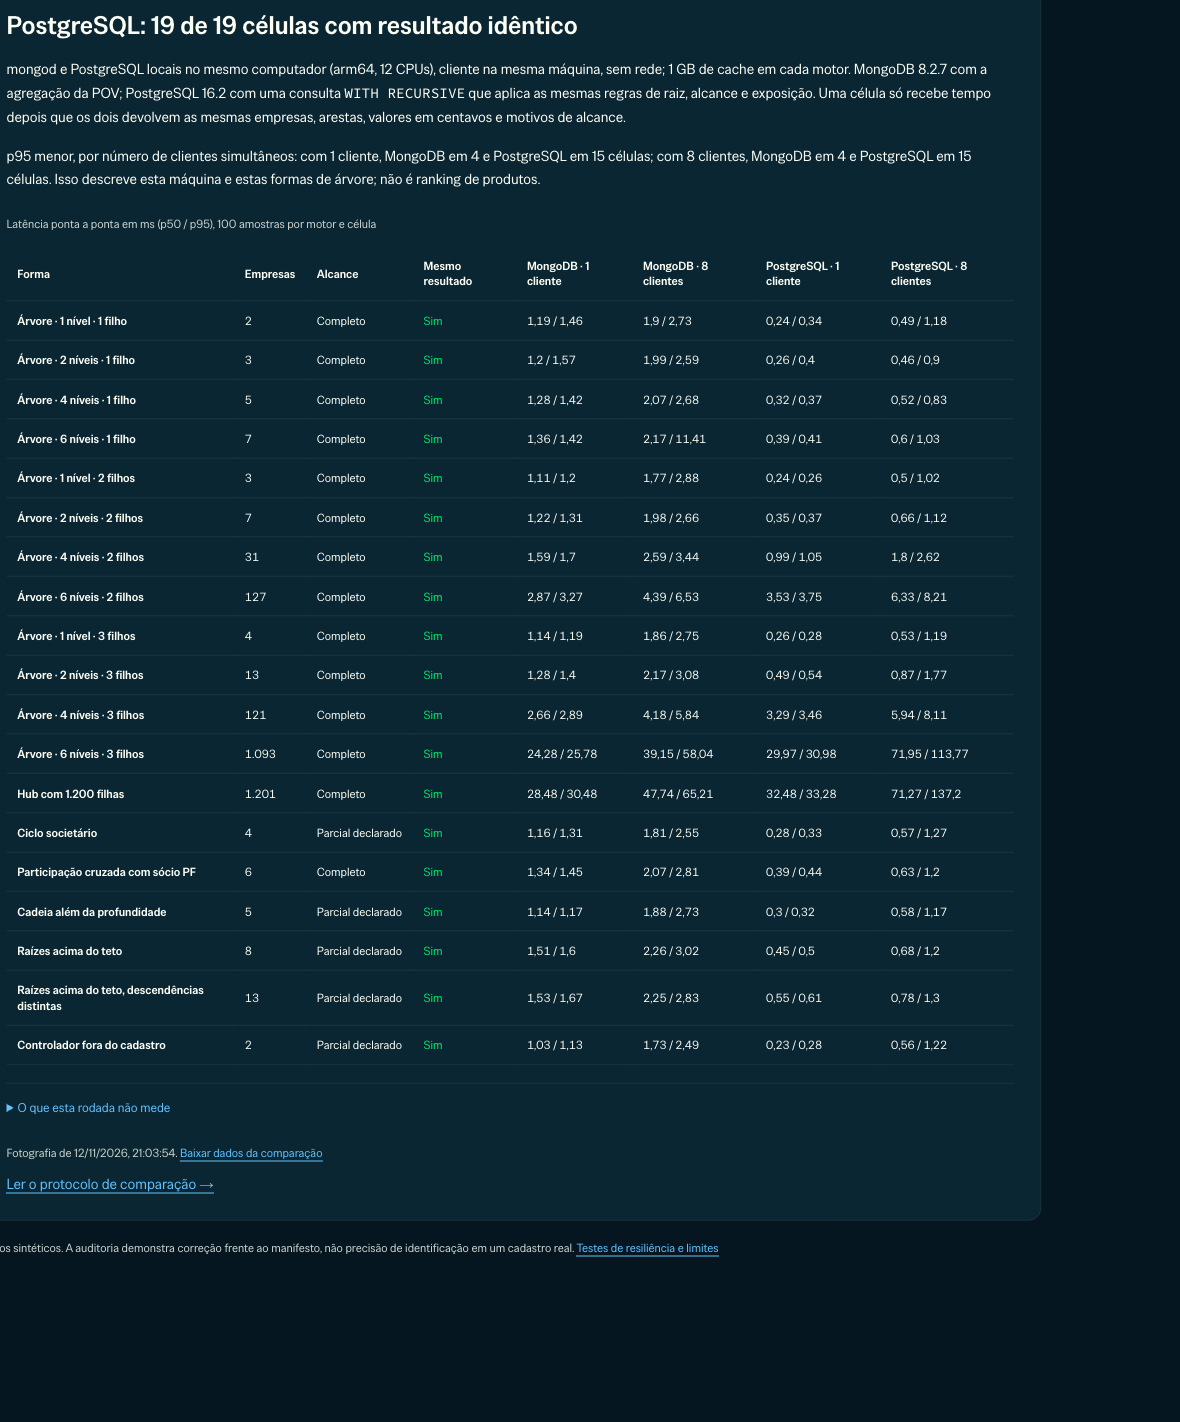
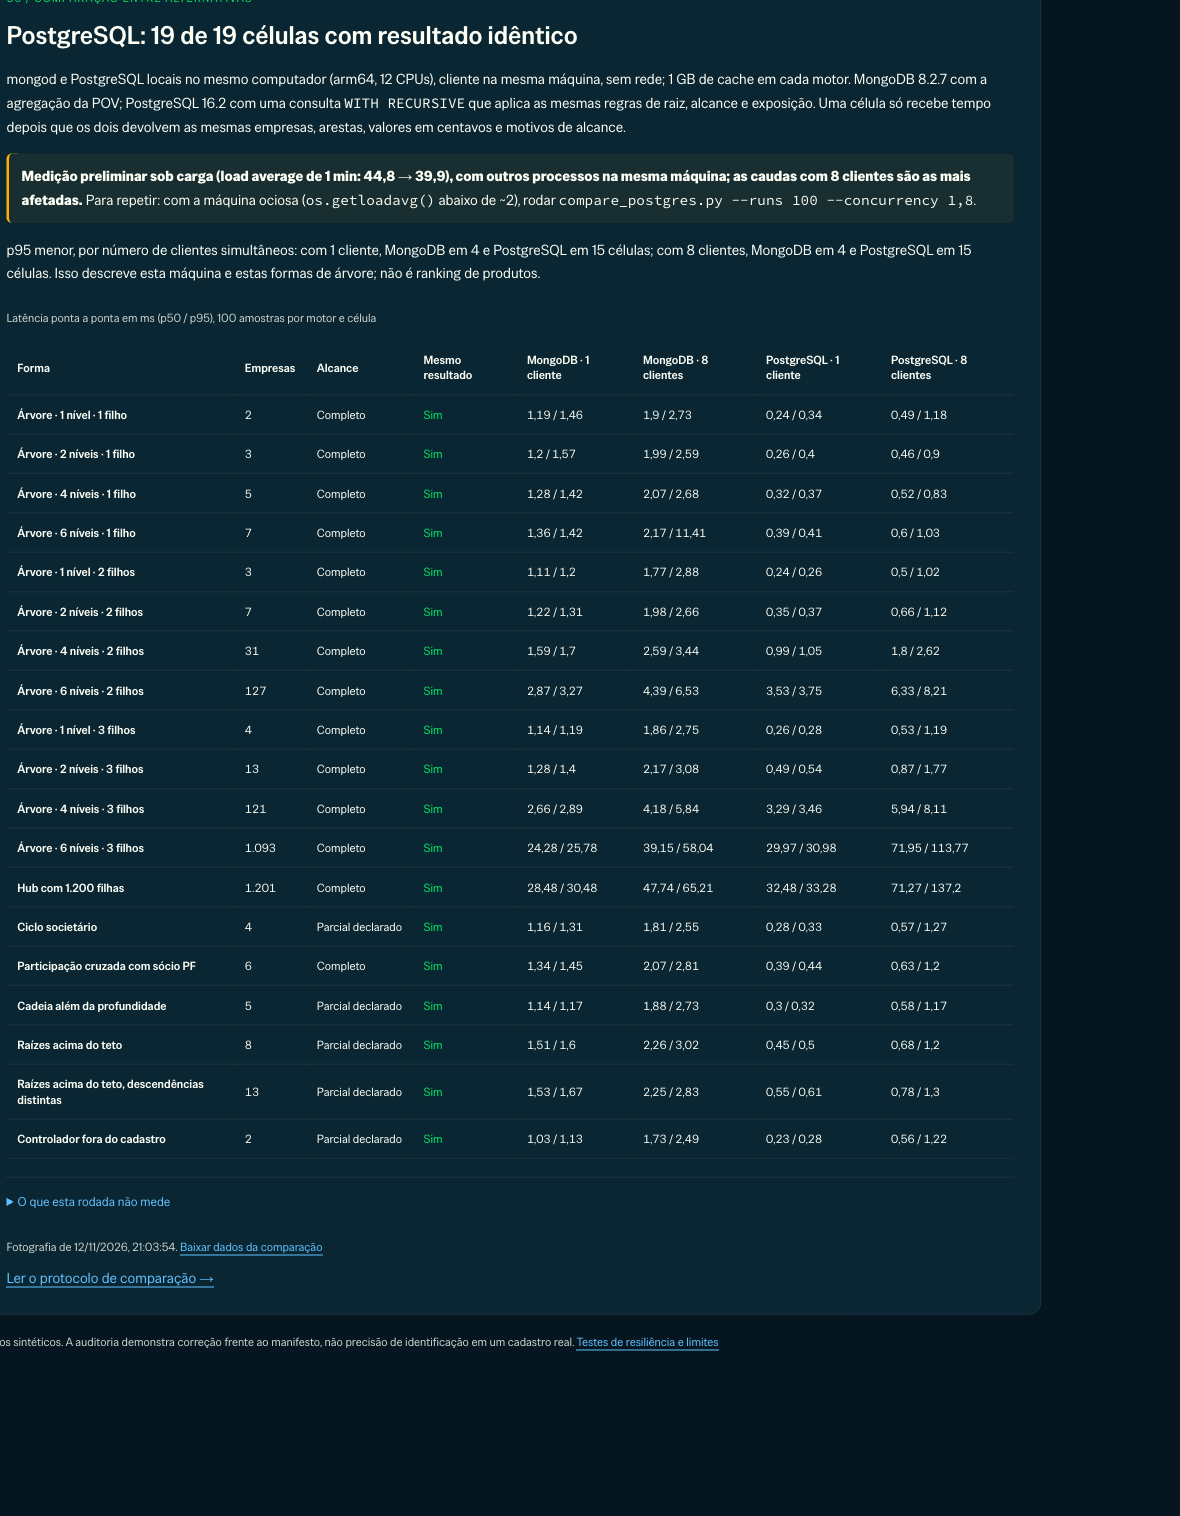
docs: comparação rotulada como medição preliminar sob carga, com passo de repetição e razões por tamanho

Changed region(s): [[0.0, 0.0, 0.8237, 0.8973], [0.2136, 0.526, 0.2441, 0.5879]]

diff --git a/frontend/src/ValidationPage.jsx b/frontend/src/ValidationPage.jsx
@@ -1,6 +1,6 @@
 import { useEffect, useState } from 'react'
 import './validation.css'
-import { validEvidenceReport, validComparisonReport } from './evidenceReport'
+import { validEvidenceReport, validComparisonReport, loadNote } from './evidenceReport'
 
 const number = n => new Intl.NumberFormat('pt-BR', { maximumFractionDigits: 2 }).format(n)
 const money = cents => new Intl.NumberFormat('pt-BR', { style: 'currency', currency: 'BRL' }).format(cents / 100)
@@ -44,17 +44,19 @@ function Comparison({ d }) {
   const timed = d.cells.filter(c => c.same_result)
   const p95 = (c, n, e) => c.latency[n][e].p95_ms
   const mongoLower = n => timed.filter(c => p95(c, n, 'mongodb') < p95(c, n, 'postgresql')).length
+  const note = loadNote(d)
   const clients = n => `${n} ${n === '1' ? 'cliente' : 'clientes'}`
   return <>
     <h2>PostgreSQL: {timed.length} de {d.cells.length} células com resultado idêntico</h2>
     <p>{d.environment}. MongoDB {d.engines.mongodb} com a agregação da POV; PostgreSQL {d.engines.postgresql} com uma consulta <code>WITH RECURSIVE</code> que aplica as mesmas regras de raiz, alcance e exposição. Uma célula só recebe tempo depois que os dois devolvem as mesmas empresas, arestas, valores em centavos e motivos de alcance.</p>
+    {note && <p className={note.busy ? 'validation-warning' : 'validation-note'}><strong>{note.text}</strong>{note.busy && <> Para repetir: com a máquina ociosa (<code>os.getloadavg()</code> abaixo de ~2), rodar <code>compare_postgres.py --runs 100 --concurrency 1,8</code>.</>}</p>}
     <p>p95 menor, por número de clientes simultâneos: {levels.map((n, i) => <span key={n}>{i ? '; ' : ''}com {clients(n)}, MongoDB em {mongoLower(n)} e PostgreSQL em {timed.length - mongoLower(n)} células</span>)}. Isso descreve esta máquina e estas formas de árvore; não é ranking de produtos.</p>
     <div className="validation-table-wrap"><table><caption>Latência ponta a ponta em ms (p50 / p95), {d.method.runs_per_cell} amostras por motor e célula</caption>
       <thead><tr><th>Forma</th><th>Empresas</th><th>Alcance</th><th>Mesmo resultado</th>{levels.map(n => <th key={'m'+n}>MongoDB · {n} {n === '1' ? 'cliente' : 'clientes'}</th>)}{levels.map(n => <th key={'p'+n}>PostgreSQL · {n} {n === '1' ? 'cliente' : 'clientes'}</th>)}</tr></thead>
       <tbody>{d.cells.map(c => <tr key={c.cell}><th>{cellLabel(c.cell)}</th><td>{number(c.returned_companies)}</td><td>{c.reasons.length ? 'Parcial declarado' : 'Completo'}</td><td className={c.same_result ? 'validation-ok' : 'validation-fail'}>{c.same_result ? 'Sim' : 'Divergente'}</td>
         {['mongodb','postgresql'].flatMap(e => levels.map(n => <td key={e+n}>{c.same_result ? `${number(c.latency[n][e].p50_ms)} / ${number(c.latency[n][e].p95_ms)}` : '—'}</td>))}</tr>)}</tbody>
     </table></div>
-    <details><summary>O que esta rodada não mede</summary><ul>{d.not_measured.map(t => <li key={t}>{t}</li>)}</ul>{d.host_load_average?.start && <p>Carga média da máquina (1 min) no início e no fim da rodada: {number(d.host_load_average.start[0])} e {number(d.host_load_average.end?.[0] ?? NaN)}, com outros processos ativos na mesma máquina. Caudas com 8 clientes são as mais sensíveis a isso.</p>}<p>Tempos incluem o cliente Python, sem rede. Amostras individuais, tempo no servidor, carga e tamanho em disco estão no download.</p></details>
+    <details><summary>O que esta rodada não mede</summary><ul>{d.not_measured.map(t => <li key={t}>{t}</li>)}</ul><p>Tempos incluem o cliente Python, sem rede. Amostras individuais, tempo no servidor, carga e tamanho em disco estão no download.</p></details>
     <p className="validation-note">Fotografia de {new Date(d.measured_at).toLocaleString('pt-BR')}. <a href="/evidence/comparison.json" download="graph-comparison.json">Baixar dados da comparação</a></p>
   </>
 }

diff --git a/frontend/src/evidenceReport.js b/frontend/src/evidenceReport.js
@@ -31,3 +31,21 @@ export function validComparisonReport(d) {
       Array.isArray(c.reasons) &&
       (!c.same_result || d.method.concurrency.every(n => latency(c.latency?.[String(n)]?.mongodb) && latency(c.latency?.[String(n)]?.postgresql)))))
 }
+
+// Texto da carga da máquina durante a rodada. Sem `end`, omite o valor final.
+const IDLE_LOAD = 2
+const load = n => new Intl.NumberFormat('pt-BR', { maximumFractionDigits: 1 }).format(n)
+export function loadNote(d) {
+  const start = d?.host_load_average?.start?.[0]
+  if (!Number.isFinite(start)) return null
+  const end = d.host_load_average.end?.[0]
+  const hasEnd = Number.isFinite(end)
+  const busy = start >= IDLE_LOAD || (hasEnd && end >= IDLE_LOAD)
+  const values = hasEnd ? `${load(start)} → ${load(end)}` : `${load(start)} no início`
+  return {
+    busy,
+    text: busy
+      ? `Medição preliminar sob carga (load average de 1 min: ${values}), com outros processos na mesma máquina; as caudas com 8 clientes são as mais afetadas.`
+      : `Máquina ociosa durante a rodada (load average de 1 min: ${values}).`,
+  }
+}

diff --git a/frontend/src/validation.css b/frontend/src/validation.css
@@ -37,3 +37,4 @@
 .validation-page :focus-visible { outline:2px solid var(--accent); outline-offset:4px; }
 @media(max-width:650px) { .validation-page{padding:22px 16px 44px}.validation-card{padding:20px 14px}.validation-facts{grid-template-columns:1fr}.validation-heading{padding-top:30px}.validation-card h2{font-size:24px}.validation-chart{margin:24px -4px}.validation-meta{gap:10px}.validation-section-title label,.validation-section-title select{width:100%} }
 @media(prefers-reduced-motion:reduce){.validation-page{scroll-behavior:auto}}
+.validation-warning { padding:12px 14px; border-left:3px solid var(--warning, #ffad00); background:var(--bg-elevated, rgba(255,173,0,.06)); border-radius:6px; }

diff --git a/README.md b/README.md
@@ -52,7 +52,7 @@ npm --prefix frontend run build
 
 The script reads the demo dataset and creates an isolated `graph_evidence_test_<uuid>` database for the curve, then removes it. Ten warm samples per point provide an exploratory curve, not a stable production tail-latency estimate.
 
-The third section compares the same question against PostgreSQL `WITH RECURSIVE`, with both engines running locally on one machine and no network in between. A cell only gets timings once both engines return the same companies, edges, cents and reach reasons; all 19 did. With 1 client and with 8, PostgreSQL had the lower p95 in the same 15 cells (groups of up to 31 companies and every hostile shape) and MongoDB in the four largest trees (121 to 1,201 companies), where the 8-client gap is about two to one. Both stayed far below the 3-second interactive threshold. Managed services, network, cold cache and the full 1.2-million-company base are not part of this round. See [ADR 0004](docs/adr/0004-first-postgresql-comparison-on-local-engines.md) and the [comparison protocol](docs/comparison-protocol.md).
+The third section compares the same question against PostgreSQL `WITH RECURSIVE`, with both engines running locally on one machine and no network in between. **It is a preliminary measurement under load** (load average 44.8 → 39.9 on 12 CPUs, other processes running). To repeat it on an idle machine: wait until `os.getloadavg()` is below about 2, then run `compare_postgres.py --runs 100 --concurrency 1,8`. A cell only gets timings once both engines return the same companies, edges, cents and reach reasons; all 19 did. With 1 client and with 8, PostgreSQL had the lower p95 in the same 15 cells (groups of up to 31 companies and every hostile shape) and MongoDB in the four largest trees (121 to 1,201 companies). With 8 clients PostgreSQL's p95 was about twice MongoDB's on the 1,093- and 1,201-company trees and about 1.3–1.4× on the 121- and 127-company ones. Both stayed far below the 3-second interactive threshold. Managed services, network, cold cache and the full 1.2-million-company base are not part of this round. See [ADR 0004](docs/adr/0004-first-postgresql-comparison-on-local-engines.md) and the [comparison protocol](docs/comparison-protocol.md).
 
 ![Same result in both engines, timings per tree shape](docs/screenshots/10-comparacao-postgresql.png)
 

diff --git a/docs/comparison-protocol.md b/docs/comparison-protocol.md
@@ -1,6 +1,6 @@
 # MongoDB e PostgreSQL: protocolo de comparação
 
-**Estado em 2026-11-12:** primeira rodada executada com os dois motores locais, no mesmo computador e sem rede (MongoDB 8.2 e PostgreSQL 16, 1 GB de cache cada). As 19 células devolveram resultado idêntico. Com 1 cliente e com 8, o PostgreSQL teve p95 menor nas mesmas 15 células (grupos de até 31 empresas e todas as topologias hostis) e o MongoDB nas quatro maiores (121 a 1.201 empresas), com distância de cerca de duas vezes sob 8 clientes. A máquina estava compartilhada com outros processos (carga registrada no JSON). O MongoDB local é 8.2.7 Community; a demo roda Atlas 9.0. Decisão, números e ressalvas: [ADR 0004](adr/0004-first-postgresql-comparison-on-local-engines.md). Dados brutos: `frontend/public/evidence/comparison.json`. Atlas, PostgreSQL gerenciado, carga fria, a base de 1,2 milhão de empresas e as concorrências 32/64 continuam pendentes, nas condições abaixo.
+**Estado em 2026-11-12:** medição preliminar sob carga (load average 44,8 → 39,9 em 12 CPUs, com outros processos ativos), executada com os dois motores locais, no mesmo computador e sem rede (MongoDB 8.2 e PostgreSQL 16, 1 GB de cache cada). As 19 células devolveram resultado idêntico. Com 1 cliente e com 8, o PostgreSQL teve p95 menor nas mesmas 15 células (grupos de até 31 empresas e todas as topologias hostis) e o MongoDB nas quatro maiores (121 a 1.201 empresas). Sob 8 clientes, o p95 do PostgreSQL foi cerca de duas vezes o do MongoDB nas árvores de 1.093 e 1.201 empresas e cerca de 1,3–1,4 vez nas de 121 e 127. Para repetir em máquina ociosa: esperar `os.getloadavg()` abaixo de ~2 e rodar `compare_postgres.py --runs 100 --concurrency 1,8`. O MongoDB local é 8.2.7 Community; a demo roda Atlas 9.0. Decisão, números e ressalvas: [ADR 0004](adr/0004-first-postgresql-comparison-on-local-engines.md). Dados brutos: `frontend/public/evidence/comparison.json`. Atlas, PostgreSQL gerenciado, carga fria, a base de 1,2 milhão de empresas e as concorrências 32/64 continuam pendentes, nas condições abaixo.
 
 ```bash
 python3.12 -m venv /tmp/cmp && /tmp/cmp/bin/pip install -r queries/requirements-compare.txt

diff --git a/docs/adr/0004-first-postgresql-comparison-on-local-engines.md b/docs/adr/0004-first-postgresql-comparison-on-local-engines.md
@@ -48,11 +48,14 @@ The CI job `compare` runs the same correctness gate with `mongo:8.2` and
 informative (`continue-on-error`, 15-minute timeout), not a merge gate. Its timings
 are not published.
 
-## Result (2026-11-12, Apple M4 Pro, 12 CPUs, shared with other processes)
+## Result — preliminary measurement under load (2026-11-12, Apple M4 Pro, 12 CPUs)
 
-All 19 cells returned identical results. The machine was busy during the run (load
-average 44.8 at the start, 39.9 at the end; both recorded in the JSON), which
-inflates tails, most of all with 8 clients. Neither engine wins across the board:
+All 19 cells returned identical results. **The timings are a preliminary measurement
+under load:** other processes kept the load average at 44.8 at the start and 39.9 at
+the end (both recorded in the JSON), which inflates tails, most of all with 8
+clients. To repeat it on an idle machine, wait until `os.getloadavg()` is below
+about 2 and run `compare_postgres.py --runs 100 --concurrency 1,8`; the correctness
+result does not depend on load, the timings do. Neither engine wins across the board:
 
 | Shape | MongoDB p95, 1 / 8 clients | PostgreSQL p95, 1 / 8 clients |
 |---|---|---|
@@ -65,8 +68,9 @@ inflates tails, most of all with 8 clients. Neither engine wins across the board
 - **1 client:** PostgreSQL has the lower p95 in 15 of 19 cells — every group up to
   31 companies and every hostile shape; MongoDB in the four largest (121, 127, 1,093
   and 1,201 companies).
-- **8 clients:** the same split, 15 and 4, with wider gaps on the large trees
-  (MongoDB at roughly half the PostgreSQL p95). The 11.4 ms MongoDB outlier is
+- **8 clients:** the same split, 15 and 4. PostgreSQL's p95 was about twice
+  MongoDB's on the 1,093- and 1,201-company trees (113.8 × 58.0 ms, 137.2 × 65.2 ms)
+  and about 1.3–1.4× on the 121- and 127-company ones (8.1 × 5.8 ms, 8.2 × 6.5 ms). The 11.4 ms MongoDB outlier is
   `arvore_6n_1f`, whose p50 stayed near 2 ms.
 - MongoDB carries a fixed cost of about 1 ms per call in this pipeline (seven
   `$lookup`/`$graphLookup` stages, each with a sub-pipeline), visible even on a
